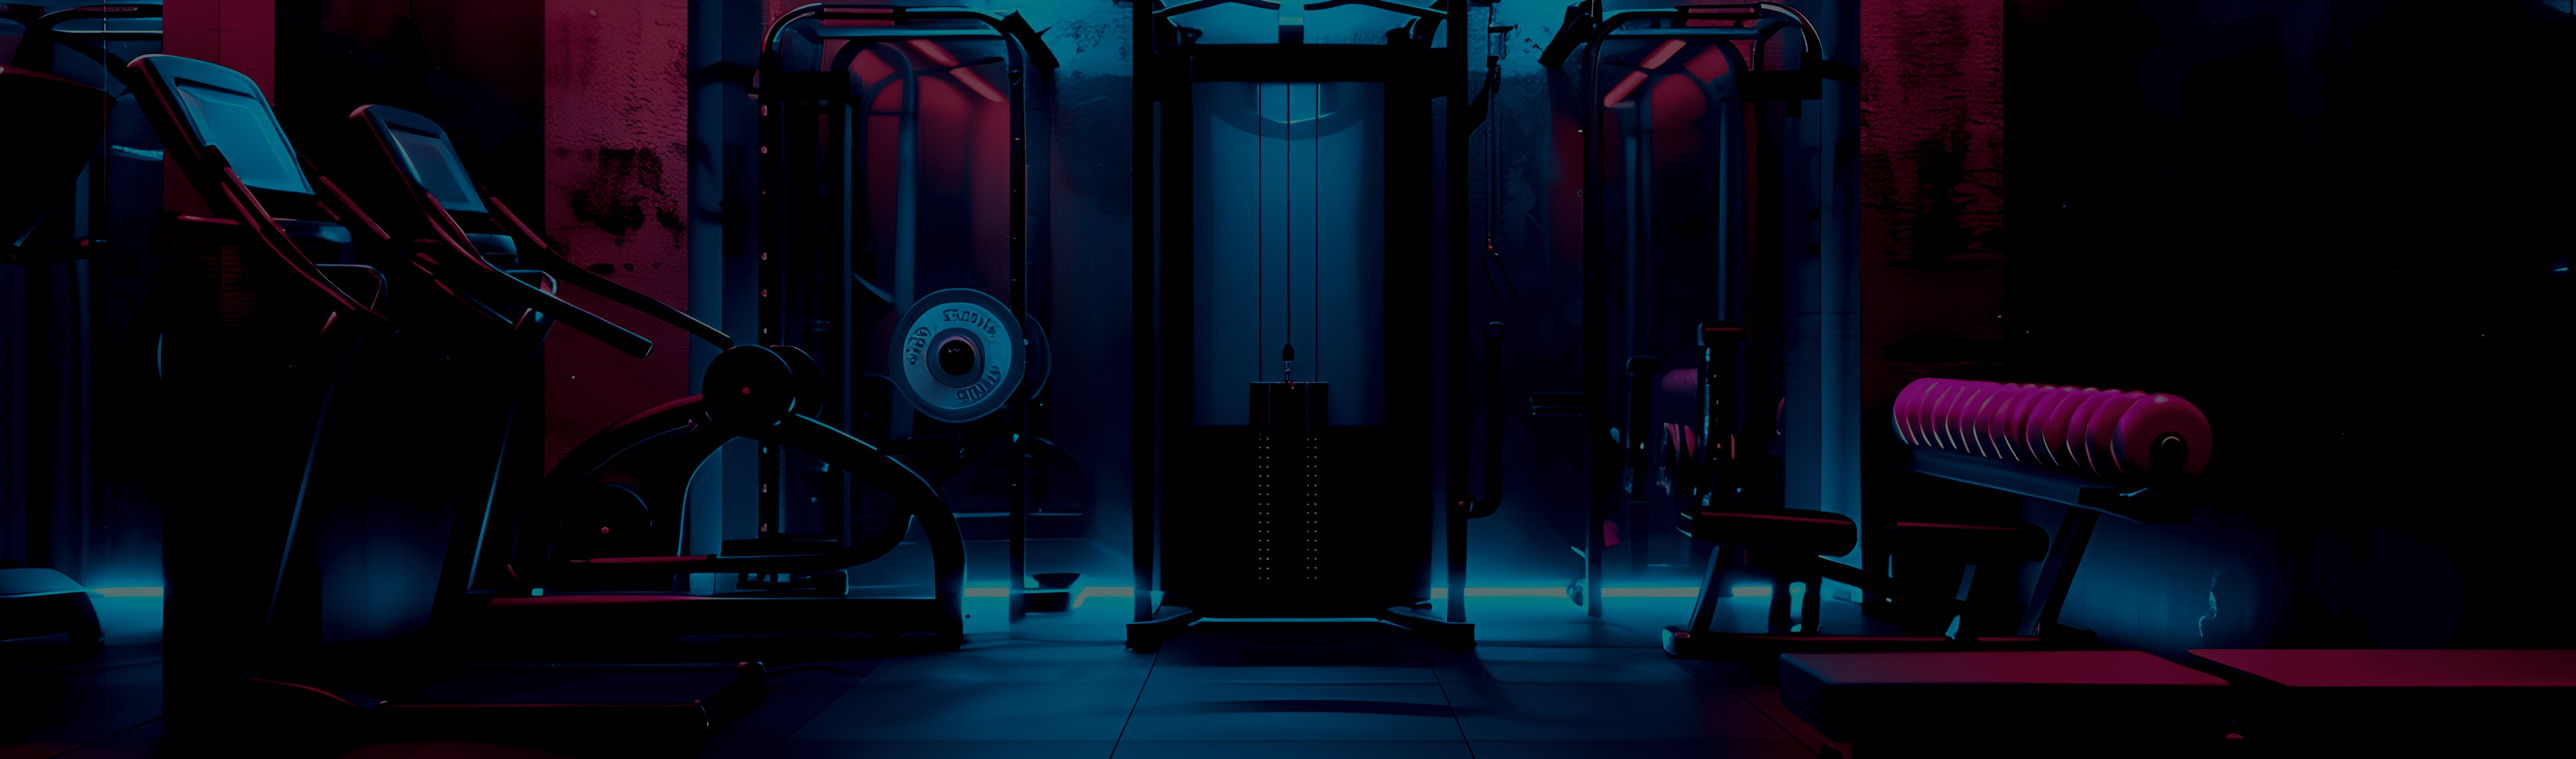
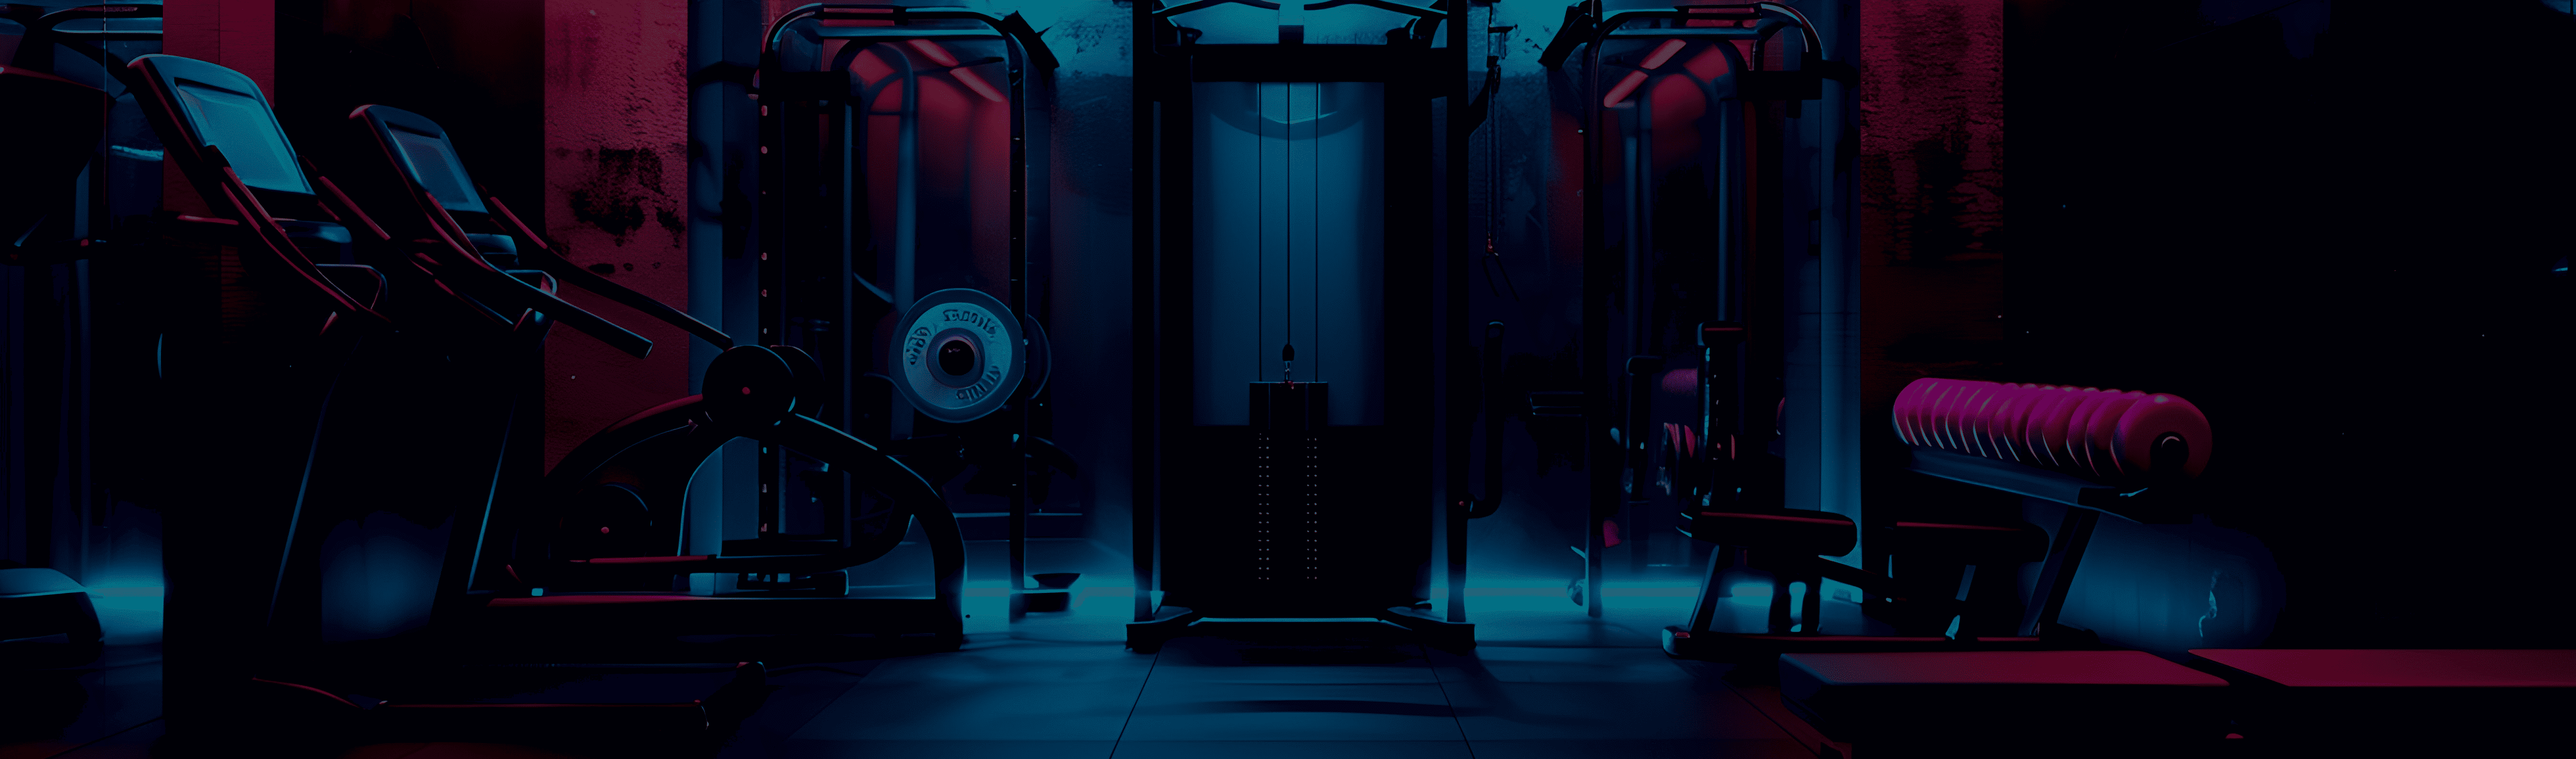
updated classes and resized pic

diff --git a/classes.html b/classes.html
@@ -47,9 +47,29 @@
                     Every class combines structure, intensity, and expert guidance to ensure you’re always progressing.
                     No wasted effort. No guesswork.
                     Just focused training that delivers real results.</p>
+                <div class="d-grid gap-2 d-md-flex justify-content-md-start buttons"> <button type="button"
+                        class="btn btn-primary btn-lg px-4 me-md-2 bt1">View Schedule</button> <button type="button"
+                        class="btn btn-outline-secondary btn-lg px-4 ps-5 bt2">Book a class</button> </div>
             </div>
             <div>
                 <img src="images/class pic.jpg" alt="piicture of a gym class" class="class_pic" loading="lazy">
+            </div>
+        </div>
+    </div>
+
+    <div class="al">
+        <div class="class_intro">
+            <div>
+                <div class="header-text">
+                    <h2 class="header-text-text why">Classes Designed for Every Goal</h2>
+                </div>
+                <p>Our group training sessions are built to help you stay accountable, push your limits, and enjoy the
+                    process. Whether
+                    you're looking to burn fat, build strength, or improve endurance, there’s a class tailored for you.
+                </p>
+            </div>
+            <div>
+                <img src="images/classpic1.jpg" alt="piicture of a gym class" class="class_pic" loading="lazy">
             </div>
         </div>
     </div>
